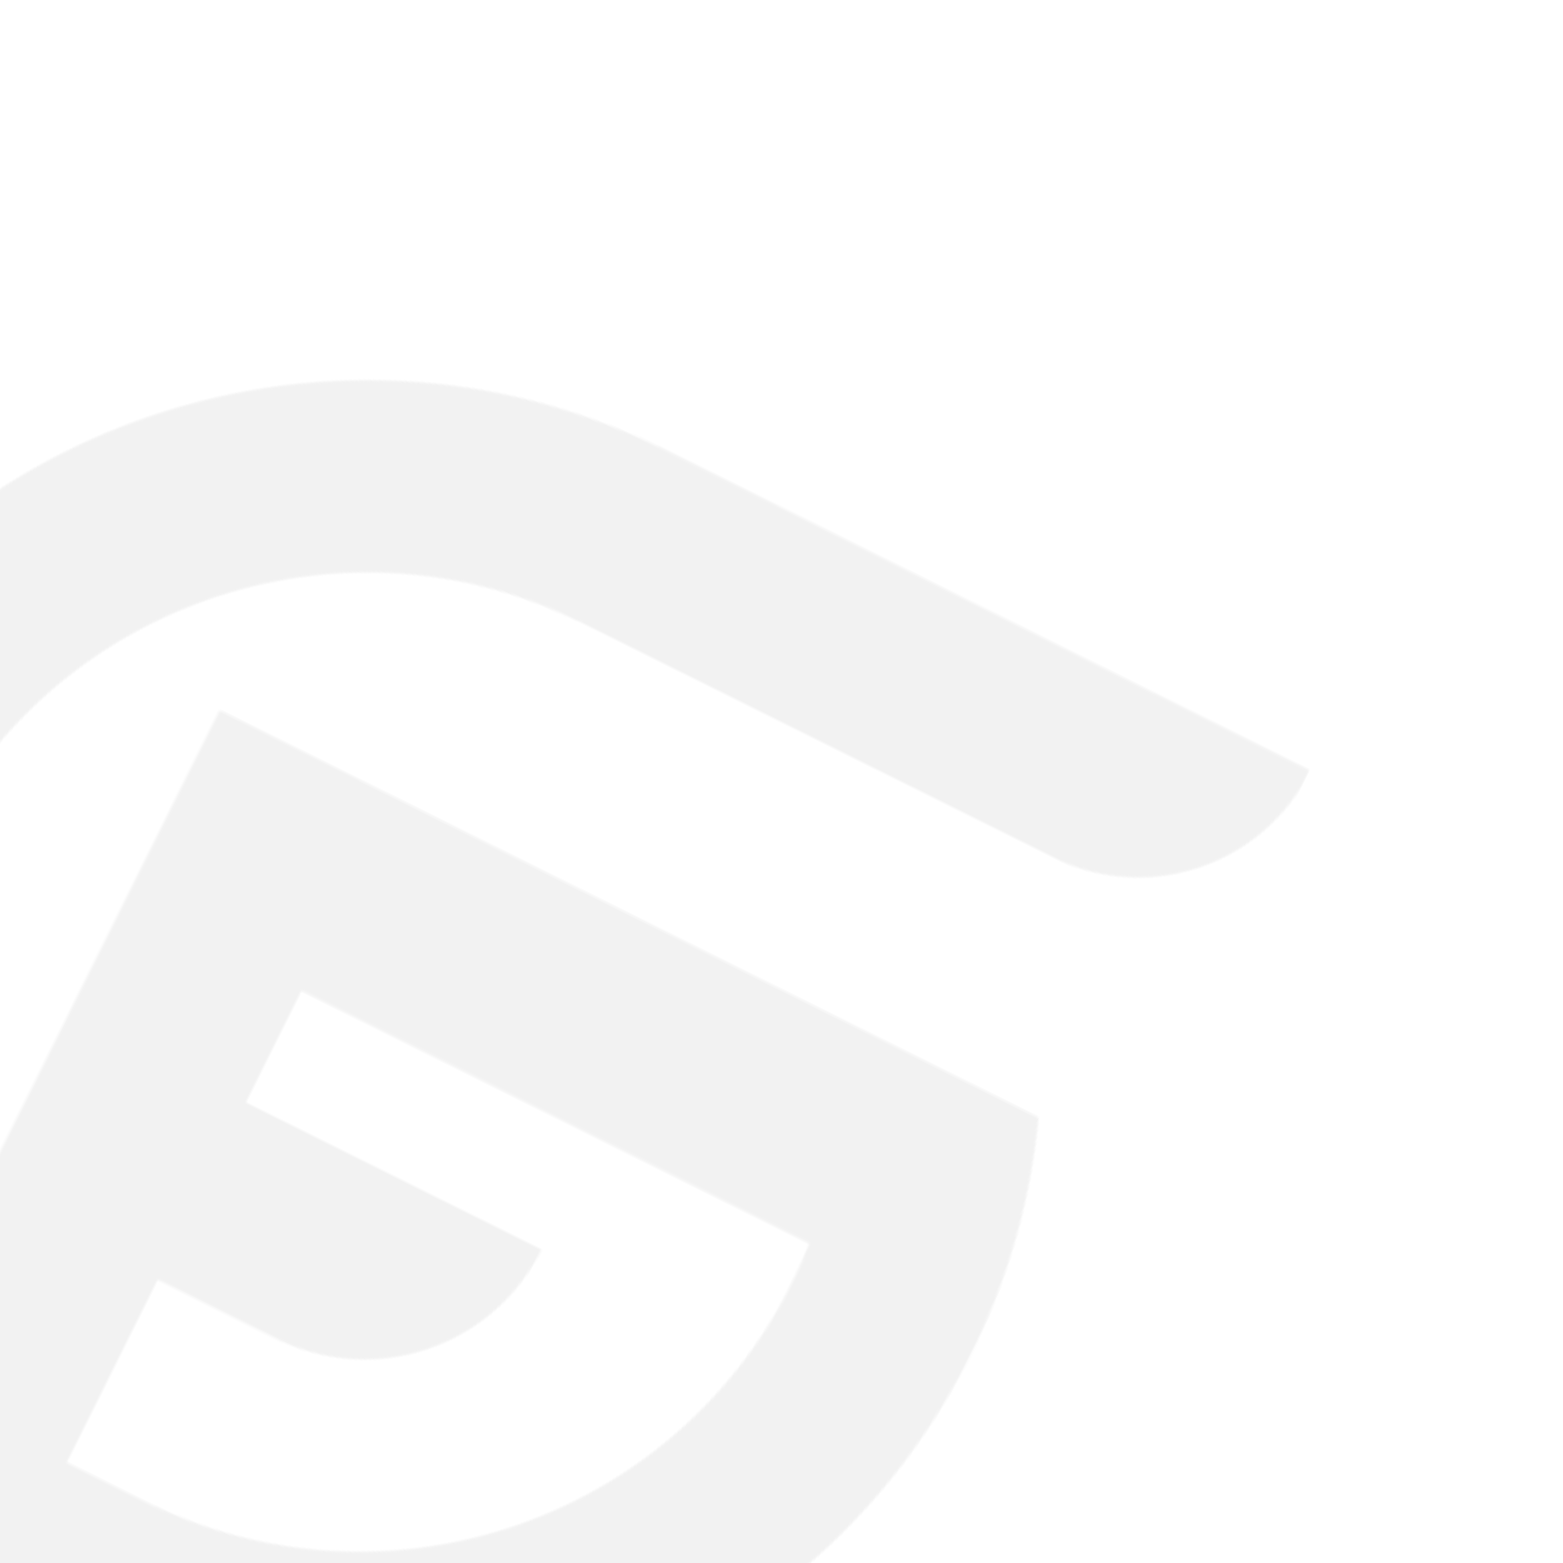
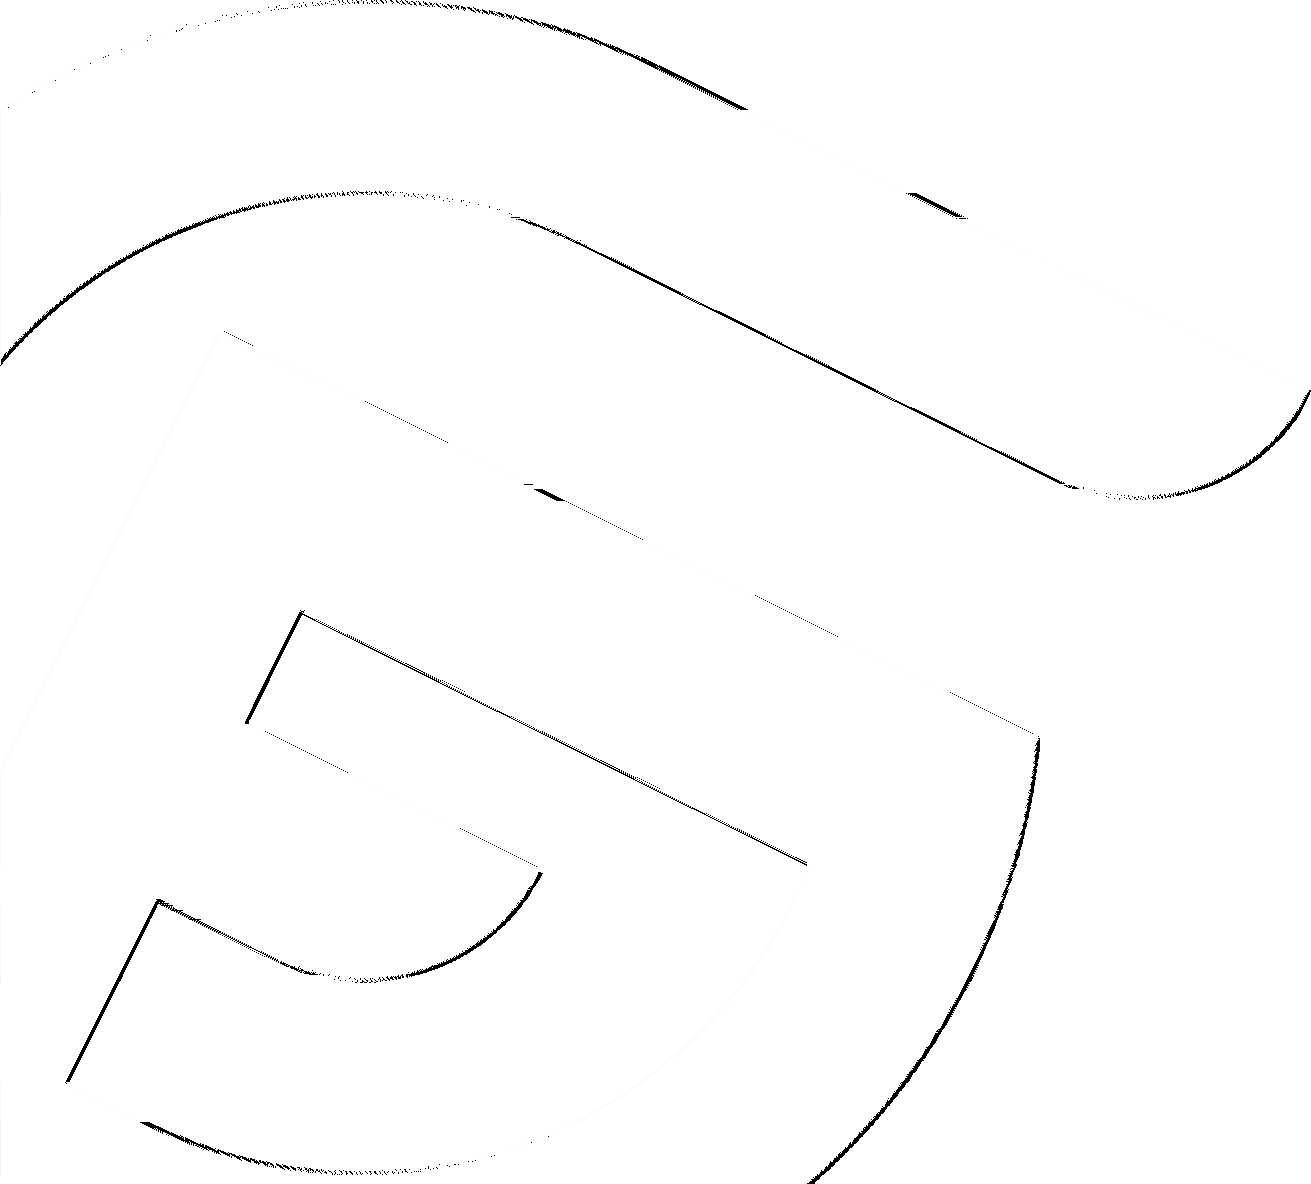
Fix watermark image crop, transparency, layout spacing, and alignment

diff --git a/src/components/IntroductionSection.tsx b/src/components/IntroductionSection.tsx
@@ -92,13 +92,13 @@ export const IntroductionSection: React.FC = () => {
       ref={sectionRef}
       id="section-introduction"
       style={sec.style}
-      className="relative w-full bg-[var(--fx-white)] text-[var(--fx-black)] pt-16 pb-4 sm:pt-24 sm:pb-8 md:pt-32 md:pb-8 px-6 sm:px-8 md:px-12 select-none no-parallax"
+      className="relative w-full bg-[var(--fx-white)] text-[var(--fx-black)] py-16 sm:py-20 md:py-24 px-6 sm:px-8 md:px-12 select-none no-parallax overflow-hidden"
     >
       <div className="relative z-10 max-w-6xl mx-auto">
-        <div className="flex flex-col lg:flex-row gap-16 lg:gap-24 items-start">
+        <div className="flex flex-col lg:flex-row gap-12 lg:gap-20 items-start">
 
-          {/* Left Column: Title & Intro */}
-          <div className="lg:w-7/12 space-y-12">
+          {/* Left Column: Title & Watermark */}
+          <div className="lg:w-7/12 space-y-8 relative">
             <div className="flex items-center gap-2 text-sm sm:text-base font-mono-tech tracking-[0.28em] text-[var(--fx-gray)] uppercase">
               <span className="text-[var(--fx-black)]">{intro.sectionNumber || '01'}</span>
               <span>{intro.label || '/ Studio'}</span>
@@ -119,20 +119,21 @@ export const IntroductionSection: React.FC = () => {
 
             <div className="w-12 h-1 bg-[var(--fx-black)]" style={{ backgroundColor: sec.accent || 'var(--fx-black)' }}></div>
             
-            {/* Watermark image: touching the left edge of the screen */}
+            {/* Watermark image: starts at left screen edge, extends gracefully under title */}
             <div 
               ref={watermarkRef} 
-              className="mt-4 sm:mt-6 relative"
+              className="pt-2 pointer-events-none select-none"
               style={{ 
                 marginLeft: 'calc(-50vw + 50%)', 
-                width: 'calc(50vw + 35%)',
-                maxWidth: '1200px'
+                width: 'clamp(280px, 44vw, 540px)',
+                maxWidth: '90vw'
               }}
             >
               <img 
-                src="/watermark.png" 
+                src="/img/creativefx-watermark.png" 
                 alt="CreativeFX Watermark" 
-                className="w-full h-auto opacity-100 object-contain object-left pointer-events-none filter invert"
+                className="w-full h-auto object-contain object-left opacity-25 pointer-events-none select-none"
+                loading="eager"
               />
             </div>
           </div>

diff --git a/src/components/FeaturedWorkSection.tsx b/src/components/FeaturedWorkSection.tsx
@@ -145,10 +145,6 @@ export const FeaturedWorkSection: React.FC<FeaturedWorkSectionProps> = ({ onSele
       }, 0);
     });
 
-    mm.add('(max-width: 767px)', () => {
-      // Mobile fallback animation
-    });
-
     return () => mm.revert();
   }, []);
 
